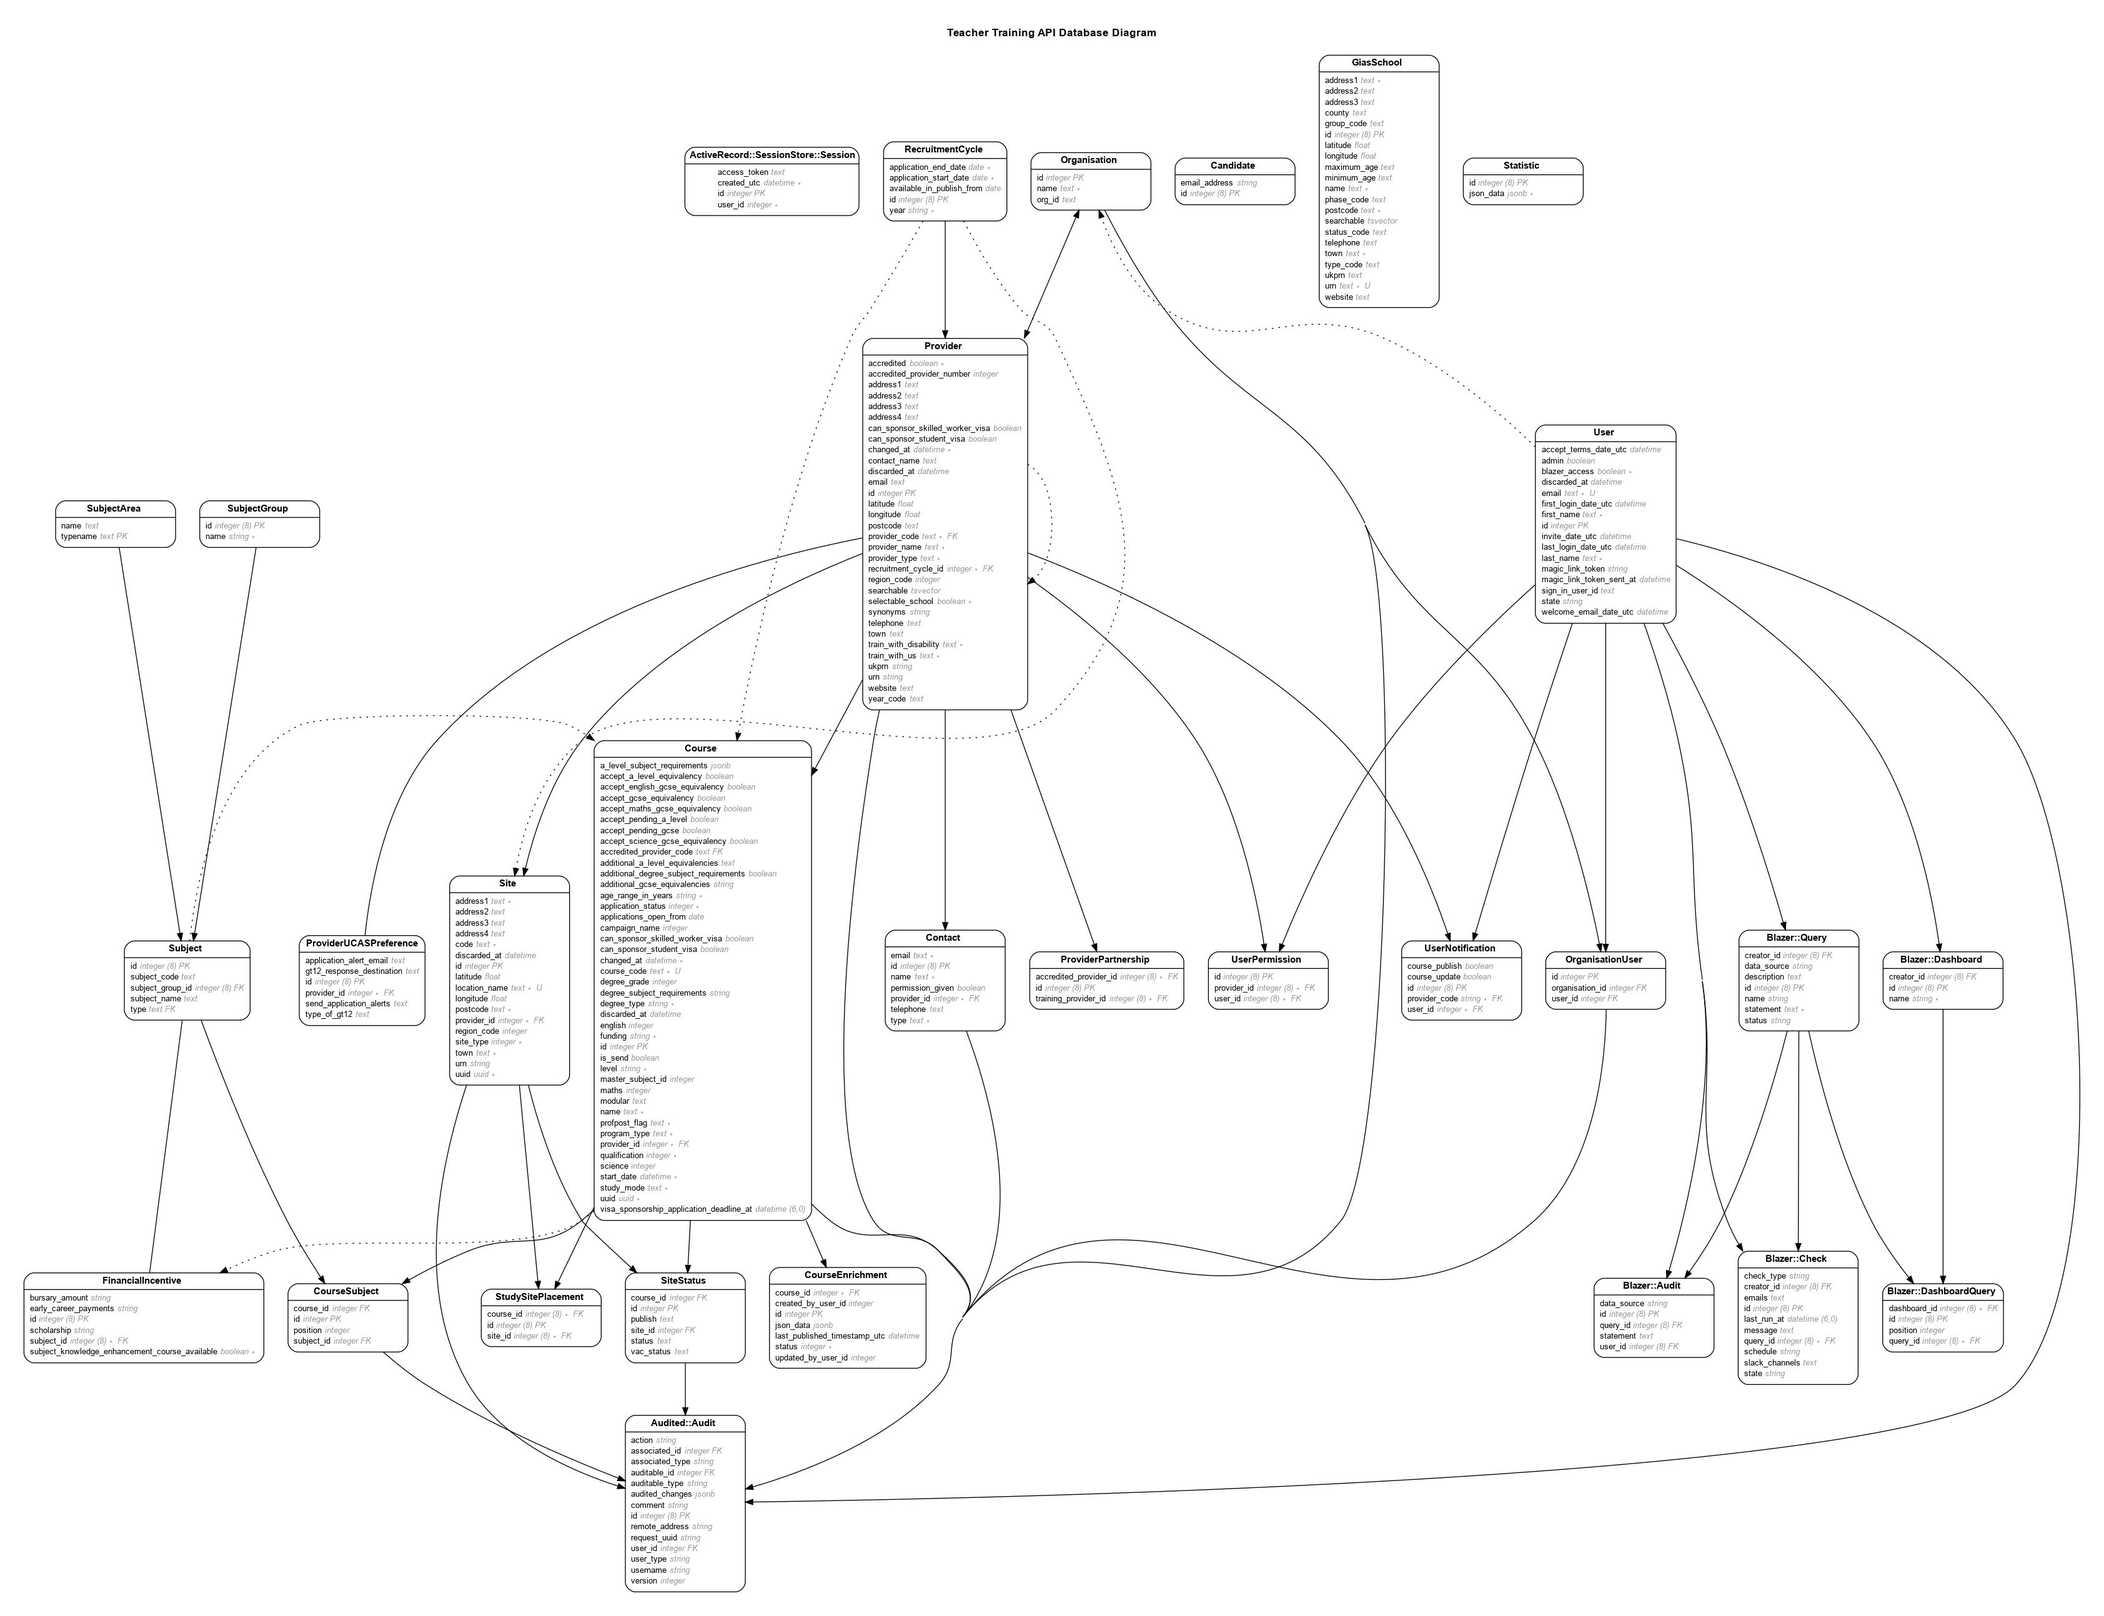
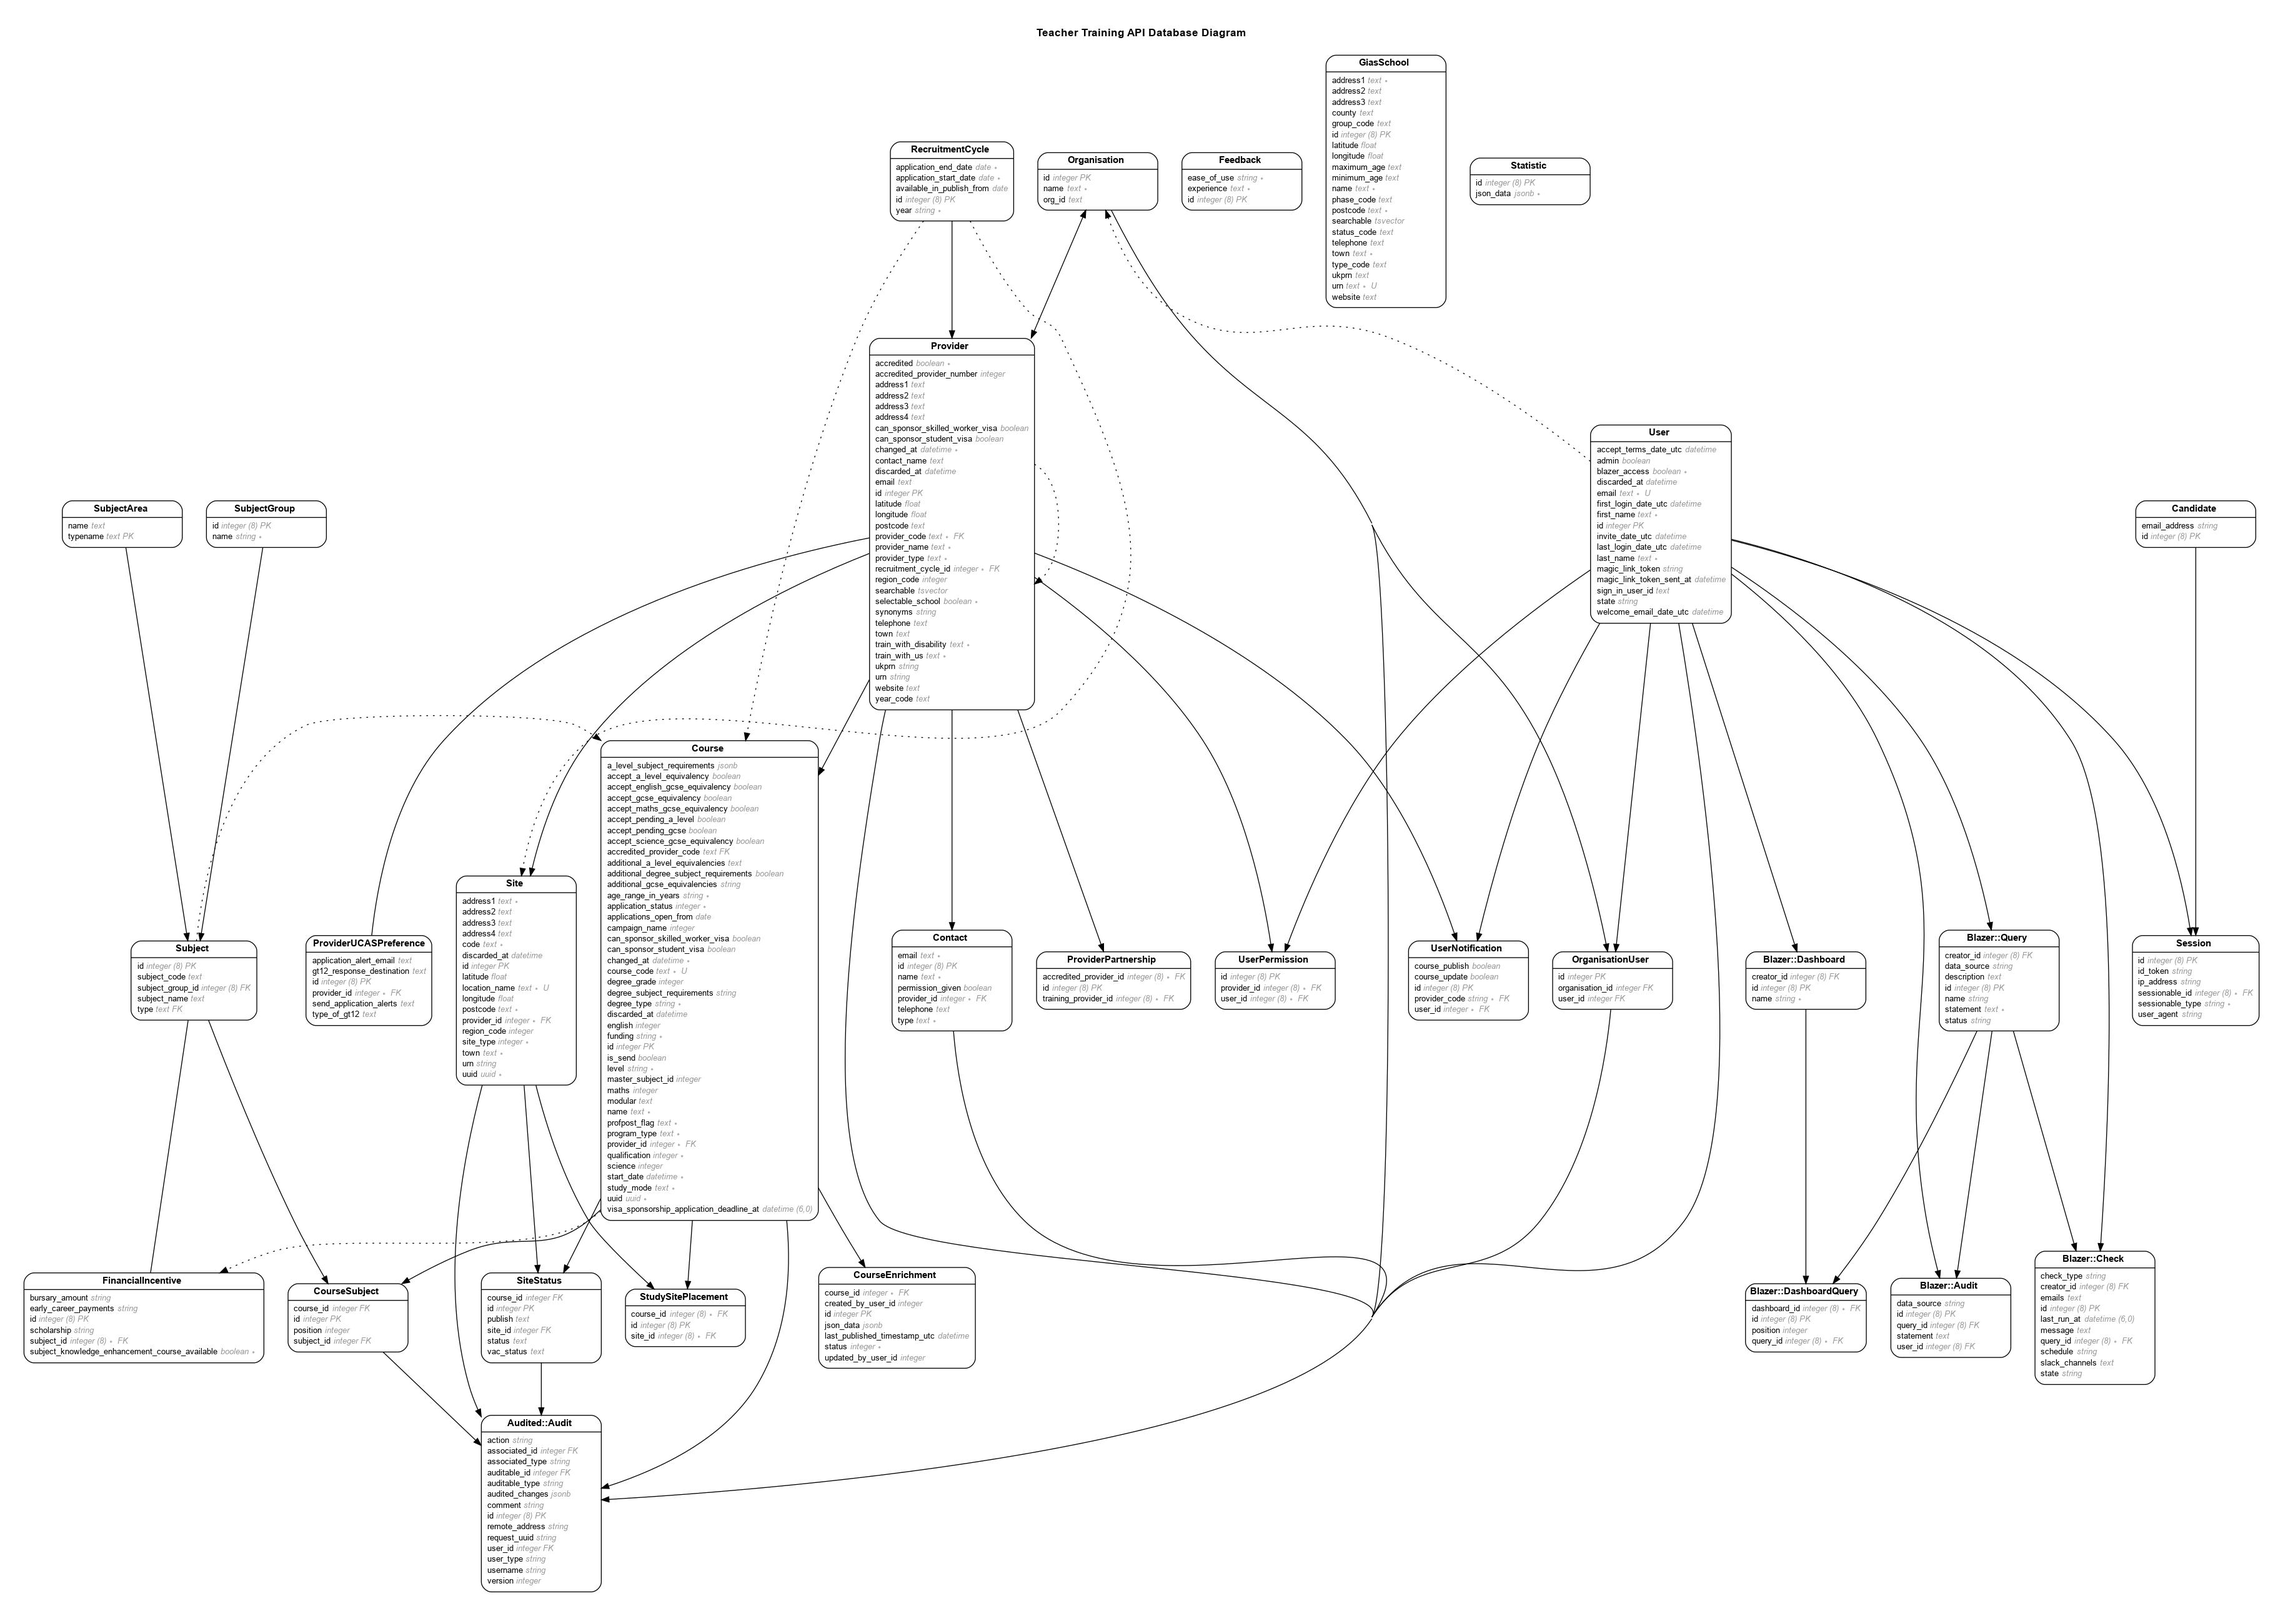
Add Session table

diff --git a/db/schema.rb b/db/schema.rb
@@ -10,7 +10,7 @@
 #
 # It's strongly recommended that you check this file into your version control system.
 
-ActiveRecord::Schema[8.0].define(version: 2025_05_15_111739) do
+ActiveRecord::Schema[8.0].define(version: 2025_05_16_093746) do
   # These are extensions that must be enabled in order to support this database
   enable_extension "btree_gin"
   enable_extension "btree_gist"
@@ -384,12 +384,16 @@ ActiveRecord::Schema[8.0].define(version: 2025_05_15_111739) do
     t.date "available_in_publish_from"
   end
 
-  create_table "session", id: :serial, force: :cascade do |t|
-    t.text "access_token"
-    t.datetime "created_utc", precision: nil, null: false
-    t.integer "user_id", null: false
-    t.index ["access_token", "created_utc"], name: "IX_session_access_token_created_utc"
-    t.index ["user_id"], name: "IX_session_user_id"
+  create_table "session", force: :cascade do |t|
+    t.string "user_agent"
+    t.string "ip_address"
+    t.string "id_token"
+    t.bigint "sessionable_id", null: false
+    t.string "sessionable_type", null: false
+    t.datetime "created_at", null: false
+    t.datetime "updated_at", null: false
+    t.index ["sessionable_id", "sessionable_type"], name: "index_session_on_sessionable_id_and_sessionable_type"
+    t.index ["updated_at"], name: "index_session_on_updated_at"
   end
 
   create_table "site", id: :serial, force: :cascade do |t|
@@ -513,7 +517,6 @@ ActiveRecord::Schema[8.0].define(version: 2025_05_15_111739) do
   add_foreign_key "organisation_user", "user", name: "FK_organisation_user_user_user_id"
   add_foreign_key "provider", "recruitment_cycle"
   add_foreign_key "provider_ucas_preference", "provider", name: "fk_provider_ucas_preference__provider"
-  add_foreign_key "session", "user", name: "FK_session_user_user_id", on_delete: :cascade
   add_foreign_key "site", "provider", name: "FK_site_provider_provider_id", on_delete: :cascade
   add_foreign_key "study_site_placement", "course"
   add_foreign_key "study_site_placement", "site"

diff --git a/db/migrate/20250516093746_add_polymorphic_sessions_table.rb b/db/migrate/20250516093746_add_polymorphic_sessions_table.rb
@@ -1,0 +1,22 @@
+class AddPolymorphicSessionsTable < ActiveRecord::Migration[8.0]
+  def up
+    drop_table :session, force: :cascade, if_exists: true
+
+    create_table :session do |t|
+      t.string :user_agent
+      t.string :ip_address
+      t.string :id_token
+      t.bigint :sessionable_id, null: false
+      t.string :sessionable_type, null: false
+
+      t.timestamps
+    end
+
+    add_index :session, %i[sessionable_id sessionable_type], if_not_exists: true
+    add_index :session, :updated_at, if_not_exists: true
+  end
+
+  def down
+    drop_table :session, if_exists: true
+  end
+end
